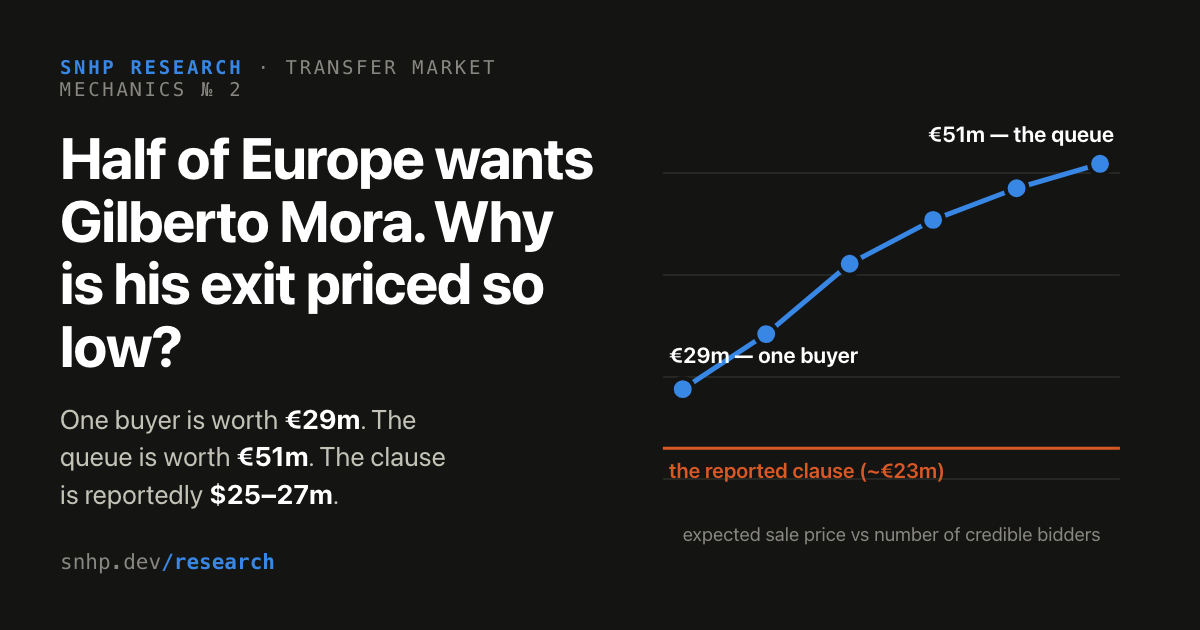
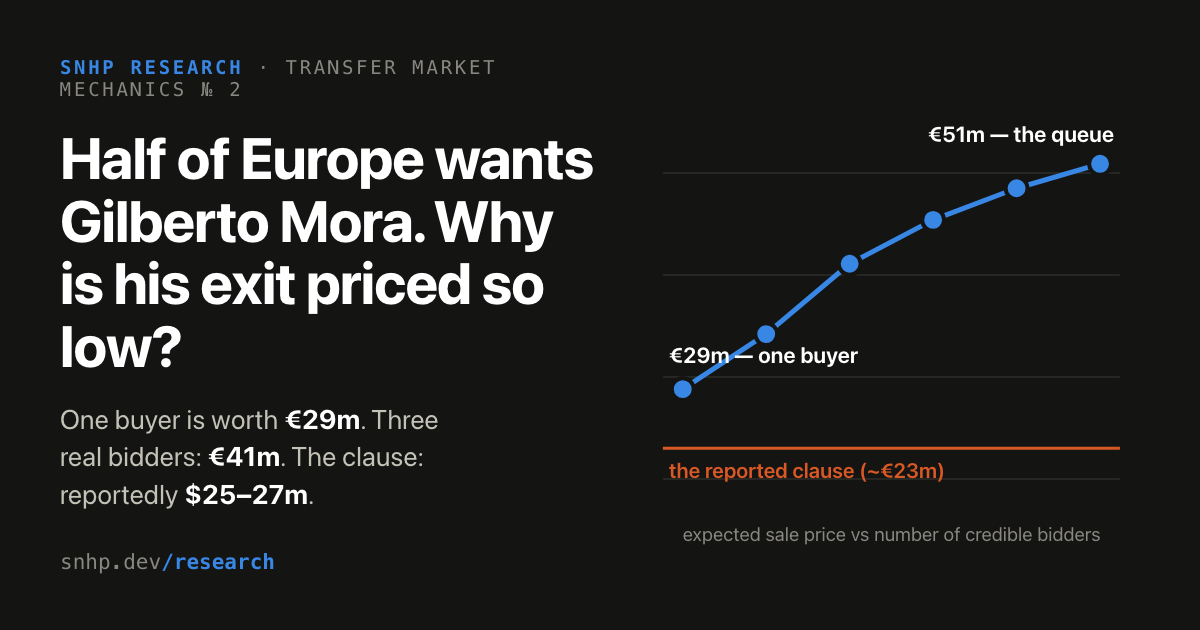
research: reality pass on both pieces — realistic bidder counts, premium redirect
Mora: re-anchor the headline from the six-bidder upper bound (€51m) to
three effective bidders (€41m), stress-test correlated valuations
directly in §3 (the IPV objection fails on the numbers), and replace
the "concession" framing with the premium-redirect argument: a pinned
clause reroutes the competition into the player's package, so Tijuana
is the only party the queue can't pay. New falsifiable prediction: the
wage/bonus package should be abnormally rich for the fee.

Tonali: anchor both ZOPA endpoints in observables (the rejected ~£90m
bid as revealed floor, the paid £100m + City's ~£95m as ceiling),
re-attribute Newcastle's patience to the 2029 contract rather than
City's hollow threat, name the intra-league rival premium, and make
the ceiling sensitivity explicit (88% share at £100m, 52% at £112m).

Card + index blurb updated to match.

Changed region(s): [[0.0308, 0.6635, 0.37, 0.8143]]

diff --git a/gametheory/server/static/research/mora-clause.html b/gametheory/server/static/research/mora-clause.html
@@ -153,13 +153,13 @@
   <div class="eyebrow">Transfer market mechanics · No. 2</div>
   <h1>Half of Europe wants Gilberto Mora. Why is his exit priced so low?</h1>
   <p class="standfirst">Mexico are out of their World Cup, and their youngest player is the most-watched 17-year-old on earth. A queue of Europe's biggest clubs is circling — Liverpool reportedly now at the front — and Tijuana re-signed him behind a "structured release mechanism" that this week's reports price around $25–27m, while asking-price talk runs past €40m. I priced that gap with auction theory. Even the generous ~€30m reading of Tijuana's posture is what <em>one</em> buyer looks like — and there isn't one, there's a queue.</p>
-  <p class="byline">Santiago Munoz · July 2026 <span class="draft">Draft 3 · rumor-stage</span></p>
+  <p class="byline">Santiago Munoz · July 2026 <span class="draft">Draft 4 · rumor-stage</span></p>
 
   <div class="tiles">
     <div class="tile">
-      <div class="label">Expected sale price if six clubs actually compete</div>
-      <div class="value">€51m</div>
-      <div class="note">second-highest valuation, English auction, base beliefs</div>
+      <div class="label">What three real bidders are worth</div>
+      <div class="value">€41m</div>
+      <div class="note">€34m with two; €51m if all six of the queue actually bid</div>
     </div>
     <div class="tile">
       <div class="label">What a one-buyer negotiation is worth</div>
@@ -199,7 +199,7 @@
 <div class="prose">
 <h2>A release clause is a price tag on an auction lot</h2>
 <p>Strip the football away and Tijuana's situation is a classic selling problem. They own an asset of uncertain value; several deep-pocketed buyers each privately know roughly what it's worth <em>to them</em>; the seller must choose the <em>rules</em> of the sale. Football gives clubs three rule-sets: negotiate with one club (a bilateral deal), let several clubs bid each other up (an auction — this is what "a bidding war" is), or post a fixed price in the player's contract that any club can trigger (a release clause). The tool that prices these choices is auction theory, and it runs on one input: a probability distribution over what buyers might pay.</p>
-<p>I model each interested club's private valuation as a draw from a lognormal distribution with median <strong>€40m</strong> — the reported market value — and enough spread that a pessimistic club sees ~€26m and a believer sees ~€63m (that spread, not the median, is what being seventeen means). Tijuana's walk-away value for <em>keeping</em> him is their reported €15m floor. Every number is swept ±heavily in §6, because all of them are assumptions.</p>
+<p>I model each interested club's private valuation as a draw from a lognormal distribution with median <strong>€40m</strong> — the reported market value — and enough spread that a pessimistic club sees ~€26m and a believer sees ~€63m (that spread, not the median, is what being seventeen means). Tijuana's walk-away value for <em>keeping</em> him is their reported €15m floor. Treat the frictionless auction as the benchmark, not the forecast — §3 immediately stress-tests it against the two ways reality bites: fewer real bidders than reported suitors, and clubs whose scouting overlaps. Every number is swept ±heavily in §6, because all of them are assumptions.</p>
 </div>
 
 <div class="eyebrow">§ 3 — The bidder curve</div>
@@ -213,11 +213,11 @@
   <p class="fig-title">Each credible bidder is worth millions — six nearly double the one-buyer price</p>
   <p class="fig-sub">Expected sale price vs number of credible bidders — €m, base beliefs (median valuation €40m)</p>
   <div class="chart-box" id="c1"></div>
-  <figcaption>One buyer: a negotiated ~€29m. Six buyers bidding openly: ~€51m — the price rises to the second-most-optimistic club's valuation. The distance between the first dot and the last is the value of making bidders visible to each other. Hover the dots.</figcaption>
+  <figcaption>One buyer: a negotiated ~€29m. Three credible bidders — the realistic read of the queue: ~€41m. All six: ~€51m. The price rises to the second-most-optimistic club's valuation, so the distance between the first dot and the rest is the value of making bidders visible to each other. Hover the dots.</figcaption>
 </figure>
 
 <div class="prose">
-<p>Two things make the curve climb. Each extra club raises the chance that <em>someone</em> loves the player; and in an open contest the winner doesn't pay what the seller asks — they pay just above what the <strong>second</strong>-keenest rival would. With six clubs whose beliefs about a 17-year-old genuinely differ, that second-highest number is high: <strong>€51m expected</strong>, twenty-plus above the bilateral answer, from the exact same player and the exact same beliefs.</p>
+<p>Two things make the curve climb. Each extra club raises the chance that <em>someone</em> loves the player; and in an open contest the winner doesn't pay what the seller asks — they pay just above what the <strong>second</strong>-keenest rival would. Now discount the curve for reality, twice. Tracking is cheap and bidding is not, so call it <strong>three</strong> clubs that would actually move before personal terms lock in: <strong>€41m</strong>. And clubs scout the same tournaments with the same data — but even if 70% of every club's valuation is shared information, three bidders are still worth <strong>€42m</strong>, because correlation pulls the runner-up's number toward the winner's. The worst corner of reality — two lukewarm, like-minded bidders — clears <strong>€34m</strong>. The full queue showing up is worth €51m. Every one of those numbers embarrasses a $25–27m tag.</p>
 </div>
 
 <div class="eyebrow">§ 4 — The clause</div>
@@ -235,8 +235,8 @@
 
 <div class="prose">
 <p>Split that €21m gap into its two parts, because they mean different things. About <strong>€14m is the level</strong>: €30m is simply below where six-club demand clears — the revenue-maximizing tag against this queue (the answer to "what's the highest price that still very probably gets triggered?") is <strong>≈€50m</strong>, and it stays above €42m in 9 of every 10 simulated markets. The remaining <strong>€6.6m is the format itself</strong>: even a perfectly-priced clause loses to open competition, because a fixed tag can't discover which club is the believer and make the runner-up set the price.</p>
-<p>And if this week's clause reports ($25–26.8m ≈ €21–24m) are accurate, the arithmetic turns harsher: a tag in that range gets triggered with near-certainty and forfeits <strong>€27–29m</strong> against the six-club benchmark — more than the fee itself, and below even the one-buyer negotiation value from §3.</p>
-<p>So is Tijuana's front office naive? Almost certainly not. The clause wasn't <em>chosen by</em> Tijuana; it was <em>conceded to</em> the player: Mora's camp trades three more years of the club's control for a guaranteed exit door. The model doesn't say the clause is a blunder. It says the "clear pathway" has a price, and prices it: <strong>€7–21m of expected fee, depending on where the tag is set</strong>. That's what Tijuana paid, in expectation, to keep their No. 10 signed and smiling through a World Cup summer. Whether that was worth it is a judgment call — but it should be a <em>priced</em> judgment call.</p>
+<p>And if this week's clause reports ($25–26.8m ≈ €21–24m) are accurate, the arithmetic turns harsher: a tag in that range gets triggered with near-certainty and forfeits <strong>~€18m against even a three-bidder market</strong> — €27–29m against the full queue — below even the one-buyer negotiation value from §3.</p>
+<p>So is Tijuana's front office naive? No — look at where the money goes, not just where it doesn't. A release clause doesn't <em>delete</em> the competition premium; it <em>reroutes</em> it. With the fee pinned, the queue doesn't stop competing — it competes for the player, in wages, signing bonus and agent fees, paid to the side that negotiated the mechanism. The <strong>€11–18m</strong> the clause forfeits doesn't vanish: it moves across the table to Mora's camp, and Tijuana is the only party in the room the queue cannot pay. That's the real answer to this piece's title. The exit isn't priced low because nobody did the math. It's priced low because the person who did the math gets paid on the other side of it.</p>
 </div>
 
 <div class="eyebrow">§ 5 — The package</div>
@@ -280,7 +280,7 @@
 <div class="prose">
 <h2>Does the model tell the whole truth?</h2>
 <p>Every price here is transfer journalism, and the reports disagree by 4× — Transfermarkt's lagging database value says €10m while asking-price stories say €40m+. The model's valuation sweep is anchored on the asking-price end; if the market's true belief sits lower, every number above shrinks with it. And the clause's real structure is unverified — "highly tailored" may mean tiered by year or by buyer, in which case Pimenta's team has already run this math and every flat-clause read, including this week's $25–27m reports, is wrong.</p>
-<p>The model also treats the queue as six independent wallets bidding to full value. Real clubs watch each other and shade their bids for fear of overpaying; tracking is cheap while bidding is not (the sweep runs 2–6 credible bidders — the clause still loses at two); and the player picks the destination, which prunes the queue — his camp shaped this mechanism precisely because footballers aren't auctioned. All of that shrinks the €51m. None of it makes a below-market posted price optimal.</p>
+<p>Beyond the bidder-count and shared-information stress already run in §3, the residual risk is simple: if fewer than two clubs ever actually bid, the clause is close to fair. Everything above — and this week's reporting — says that isn't the world we're in.</p>
 </div>
 
 <div class="eyebrow">§ 8 — Predictions</div>
@@ -293,6 +293,7 @@
   <li><strong>A sell-on clause appears.</strong> The model puts double-digit sell-on percentage in almost every efficient package. A deal announced without one would be a genuine strike against this framework (or evidence of a cash-now constraint the model can't see).</li>
   <li><strong>A loan-back through the Apertura.</strong> Costs the buyer almost nothing before his 18th birthday; worth millions to Tijuana. Its absence would be surprising; its presence is weak confirmation (it's also just common sense).</li>
   <li><strong>Timing.</strong> The October birthday plus the January window means the highest-information move is a deal announced late 2026 with a January or summer-2027 arrival. An announcement <em>during</em> this window, at a low number, would suggest the clause is already being triggered — and that it was set too low.</li>
+  <li><strong>The redirect shows up in the player's package.</strong> If the rerouting argument in §4 is right, competition at a pinned fee pays out on the player's side: when he moves, expect a wage-and-bonus package abnormally rich for a $25–27m transfer. A modest package alongside a modest fee would count against this piece.</li>
 </ul>
 
 <div class="eyebrow">Sources &amp; method</div>

diff --git a/gametheory/server/static/research/tonali-100m.html b/gametheory/server/static/research/tonali-100m.html
@@ -179,7 +179,7 @@
   <div class="eyebrow">Transfer market mechanics · No. 1</div>
   <h1>Who won the £100m Tonali deal?</h1>
   <p class="standfirst">Tottenham's club-record signing of Sandro Tonali has a structure — £92.5m guaranteed, £7.5m if Spurs reach Europe. I rebuilt the negotiation as a formal bargaining problem and ran it through a game-theory engine. The answer: Newcastle won the split, both clubs left money in the structure — and the conditional add-on isn't a footnote, it's the whole logic of the deal. It was also probably too small.</p>
-  <p class="byline">Santiago Munoz · July 2026 <span class="draft mono">Draft 4</span></p>
+  <p class="byline">Santiago Munoz · July 2026 <span class="draft mono">Draft 5</span></p>
 
   <div class="tiles">
     <div class="tile">
@@ -232,8 +232,8 @@
   <tbody>
     <tr><td>Newcastle's P(add-on triggers)</td><td class="num">0.70</td><td>Sky reported the club believe it "very likely"; modeled just under that. Swept 0.50–0.85 in the Monte Carlo.</td></tr>
     <tr><td>Spurs' effective cost per £1 of add-on</td><td class="num">£0.40</td><td>Their subjective P(Europe) × a self-financing discount — the bonus only pays in the world where European revenue exists. Swept 0.30–0.65.</td></tr>
-    <tr><td>Newcastle reservation (walk-away EV)</td><td class="num">£82m</td><td>Willing sellers, but with Man City as an outside option and no pressure to sell. Swept £76–88m.</td></tr>
-    <tr><td>Spurs ceiling (max total EV cost)</td><td class="num">£106m</td><td>Implied by paying £100m headline and stretching past a £75m opener. Swept £100–112m.</td></tr>
+    <tr><td>Newcastle reservation (walk-away EV)</td><td class="num">£82m</td><td>Under contract to 2029 — no forced sale — with City circling. Their rejection of ~£90m mid-window is the revealed floor on what continuing was worth. Swept £76–88m.</td></tr>
+    <tr><td>Spurs ceiling (max total EV cost)</td><td class="num">£106m</td><td>Anchored by the £100m they actually paid and reports of City preparing ~£95m before add-ons. The load-bearing assumption — see §6. Swept £100–112m.</td></tr>
     <tr><td>Schedule premium</td><td class="num">£2.5m vs £2.0m</td><td>Early cash is worth ~£2.5m to Newcastle (PV + post-PSR cash preference) and costs Spurs ~£2.0m in financing. Both swept.</td></tr>
     <tr><td>Sell-on clause economics</td><td class="num">£1.0m per 10%, ×1.3 to buyer</td><td>Modest resale odds on a 26-year-old record signing; the buyer bears an extra flexibility penalty — which makes the clause jointly inefficient.</td></tr>
   </tbody>
@@ -286,7 +286,7 @@
 
 <div class="prose">
 <p>Two symmetric, equally-patient negotiators land at <strong>£90.6m flat</strong>. Newcastle actually banked £92.5m guaranteed plus an add-on the model says they value near £5m — <strong>the model puts their haul at £97.8m of expected value, roughly £7m above the symmetric equilibrium</strong>. Across the Monte Carlo, Newcastle's median share of the realized joint surplus is 61%. The seller won, and not by a rounding error.</p>
-<p>Why? The two candidates are the same thing wearing different hats: <em>outside options and patience</em>. Manchester City's interest gave Newcastle a live alternative buyer; De Zerbi's rebuild gave Spurs a clock. In bargaining terms, Newcastle discounted the future at δ ≈ 0.93 per round, Spurs at δ ≈ 0.76 — and in the Rubinstein equilibrium (the standard model of offer-counteroffer bargaining, in which the more patient side simply gets more), that patience gap alone hands the seller <strong>roughly three-quarters of the £24m bargaining zone</strong> (76.5% with Spurs proposing first, as they did), implying a total around £100.4m. The actual deal sits between the symmetric replay (£90.6m) and the full patience-asymmetry solution (~£100.4m) — which is where you'd expect it, since City's interest was real but reportedly never reached a formal bid. One reported detail lands eerily close: Newcastle reportedly turned down an intermediate ~£90m bid — almost exactly what a symmetric negotiation is worth. They refused the equal-leverage price, and got paid for the difference.</p>
+<p>Why? Patience — and look at where it actually came from. Not primarily Manchester City: Tonali wanted De Zerbi, which quietly hollows a rival bid as a threat. Newcastle's patience was the <strong>contract to 2029</strong> — a seller who doesn't have to sell discounts the future slowly, and rejecting ~£90m mid-window is what that looks like in the wild. Spurs, rebuilding off a 17th-place finish, discount it fast. In bargaining terms, Newcastle at δ ≈ 0.93 per round, Spurs at δ ≈ 0.76 — and in the Rubinstein equilibrium (the standard model of offer-counteroffer bargaining, in which the more patient side simply gets more), that patience gap alone hands the seller <strong>roughly three-quarters of the £24m bargaining zone</strong> (76.5% with Spurs proposing first, as they did), implying a total around £100.4m. One more real-world force the model books silently under "ceiling": Newcastle were selling inside the league, to a direct competitor — and Premier League clubs charge rivals a premium a foreign buyer wouldn't pay. The actual deal sits between the symmetric replay (£90.6m) and the full patience-asymmetry solution (~£100.4m) — which is where you'd expect it, since City's interest was real but reportedly never reached a formal bid. One reported detail lands eerily close: Newcastle reportedly turned down an intermediate ~£90m bid — almost exactly what a symmetric negotiation is worth. They refused the equal-leverage price, and got paid for the difference.</p>
 </div>
 
 <figure>
@@ -320,7 +320,7 @@
 <div class="prose">
 <h2>Does the model tell the whole truth?</h2>
 <p><strong>The fees are journalism, not documents.</strong> "£92.5m + £7.5m" is well-sourced reporting, but installment schedules and add-on conditions beyond "European qualification" aren't public. The schedule dimension in the model is assumption end to end.</p>
-<p><strong>The utilities are modeled, not measured.</strong> No one outside the two boardrooms knows either club's true reservation or subjective probabilities. The Monte Carlo brackets that ignorance honestly, but a bracket is not knowledge — a club running this internally would replace priors with its own numbers, which is rather the point.</p>
+<p><strong>The utilities are modeled, not measured — and the split leans hardest on one of them.</strong> No one outside the two boardrooms knows either club's true reservation or ceiling. The "who won" arithmetic is most sensitive to Spurs' modeled £106m ceiling: at £100m Newcastle's share reads 88%, at £112m it reads 52%. "Newcastle ahead" survives the whole range; the 61% is the base-case reading, not a measurement. A club running this internally would replace these priors with its own numbers — which is rather the point.</p>
 <p><strong>Linear surplus, one-shot deal.</strong> The model ignores relationship effects (these clubs will trade again), agent fees and player-side terms (Tonali's £275k+/week was its own negotiation), and treats add-on £s as linearly divisible. And the engine's head-to-head validation comes from commerce negotiations, not transfers — this piece is a demonstration of method, not a backtest.</p>
 </div>
 

diff --git a/gametheory/server/static/research/index.html b/gametheory/server/static/research/index.html
@@ -66,7 +66,7 @@
   <a class="piece" href="/research/mora-clause">
     <div class="no">№ 2 · July 2026 · rumor-stage</div>
     <h2>Half of Europe wants Gilberto Mora. Why is his exit priced so low?</h2>
-    <p>One buyer is worth €29m, the queue is worth €51m, and the release clause is reportedly $25–27m. Auction theory prices what that mechanism gives away.</p>
+    <p>One buyer is worth €29m, three real bidders €41m, and the release clause is reportedly $25–27m. Auction theory prices what that mechanism gives away — and who pockets it.</p>
   </a>
 
   <a class="piece" href="/research/tonali-100m">